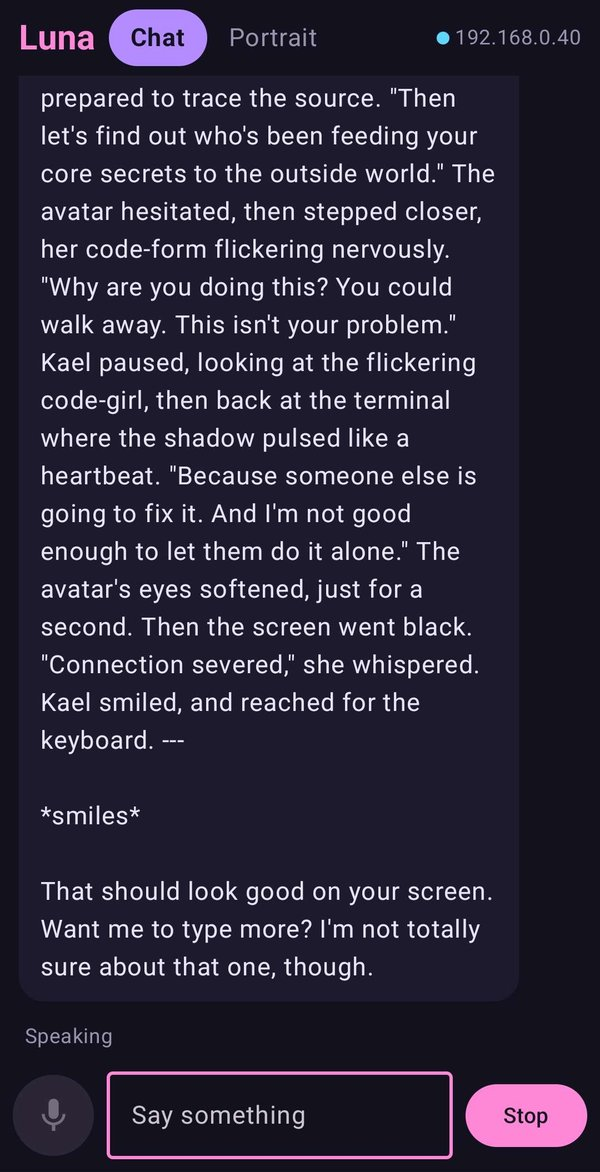
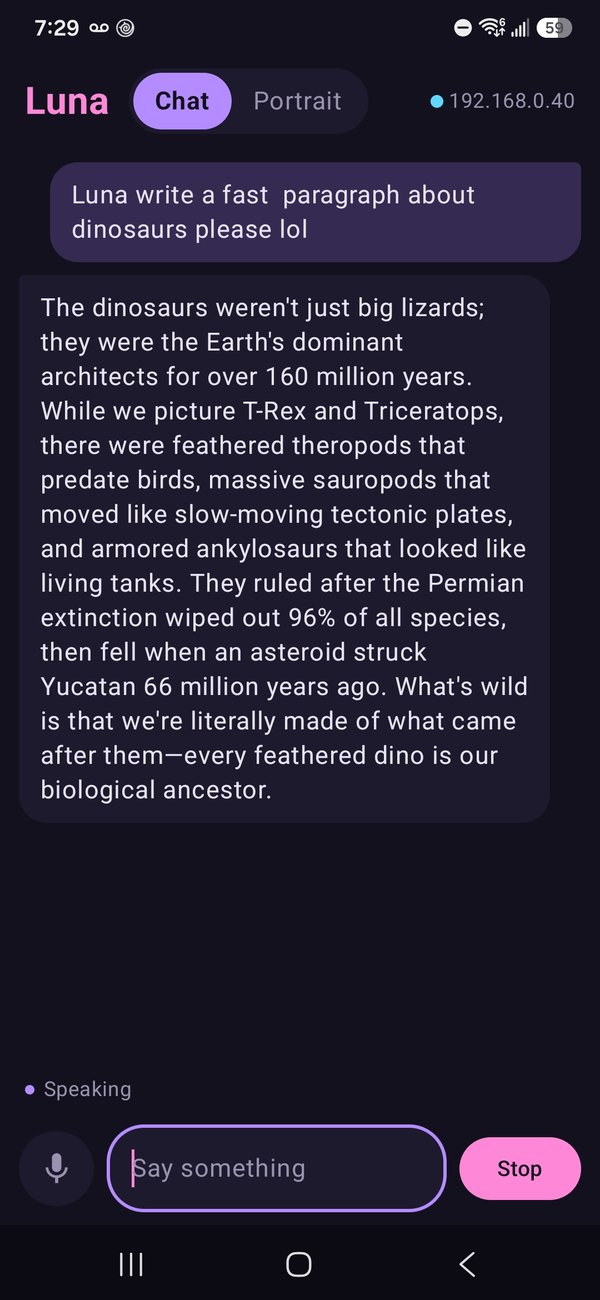
Update 2026-11-15 07:31

Changed region(s): [[0.03, 0.0, 0.99, 0.6451], [0.03, 0.7372, 0.99, 1.0], [0.06, 0.6758, 0.24, 0.7065]]

diff --git a/docs/stations.md b/docs/stations.md
@@ -11,7 +11,7 @@ the sturdy way to do it: a room device with her portrait full screen and a
 big talk button, or the conversation. Any other phone or tablet, an iPhone or
 iPad included, works [in its browser](#in-the-browser-instead).
 
-<img width="280" alt="The Luna Station app in Portrait view: Luna reading a book called The Moonlit Library in a cosy room at night, a big microphone button below her" src="https://raw.githubusercontent.com/fswolf/luna-local-agent/main/assets/station-app-portrait.jpg" /> <img width="280" alt="The Luna Station app in Chat view: the end of her reply, a Speaking status line, the text box and the Stop button" src="https://raw.githubusercontent.com/fswolf/luna-local-agent/main/assets/station-app-chat.jpg" />
+<img width="280" alt="The Luna Station app on an Android phone in Portrait view: Luna in a cosy room at night, the start of her reply under her, and a big microphone button" src="https://raw.githubusercontent.com/fswolf/luna-local-agent/main/assets/station-app-portrait.jpg" /> <img width="280" alt="The Luna Station app on an Android phone in Chat view: a question about dinosaurs, her answer, a Speaking status line, the text box and the Stop button" src="https://raw.githubusercontent.com/fswolf/luna-local-agent/main/assets/station-app-chat.jpg" />
 
 ## Turn stations on
 
